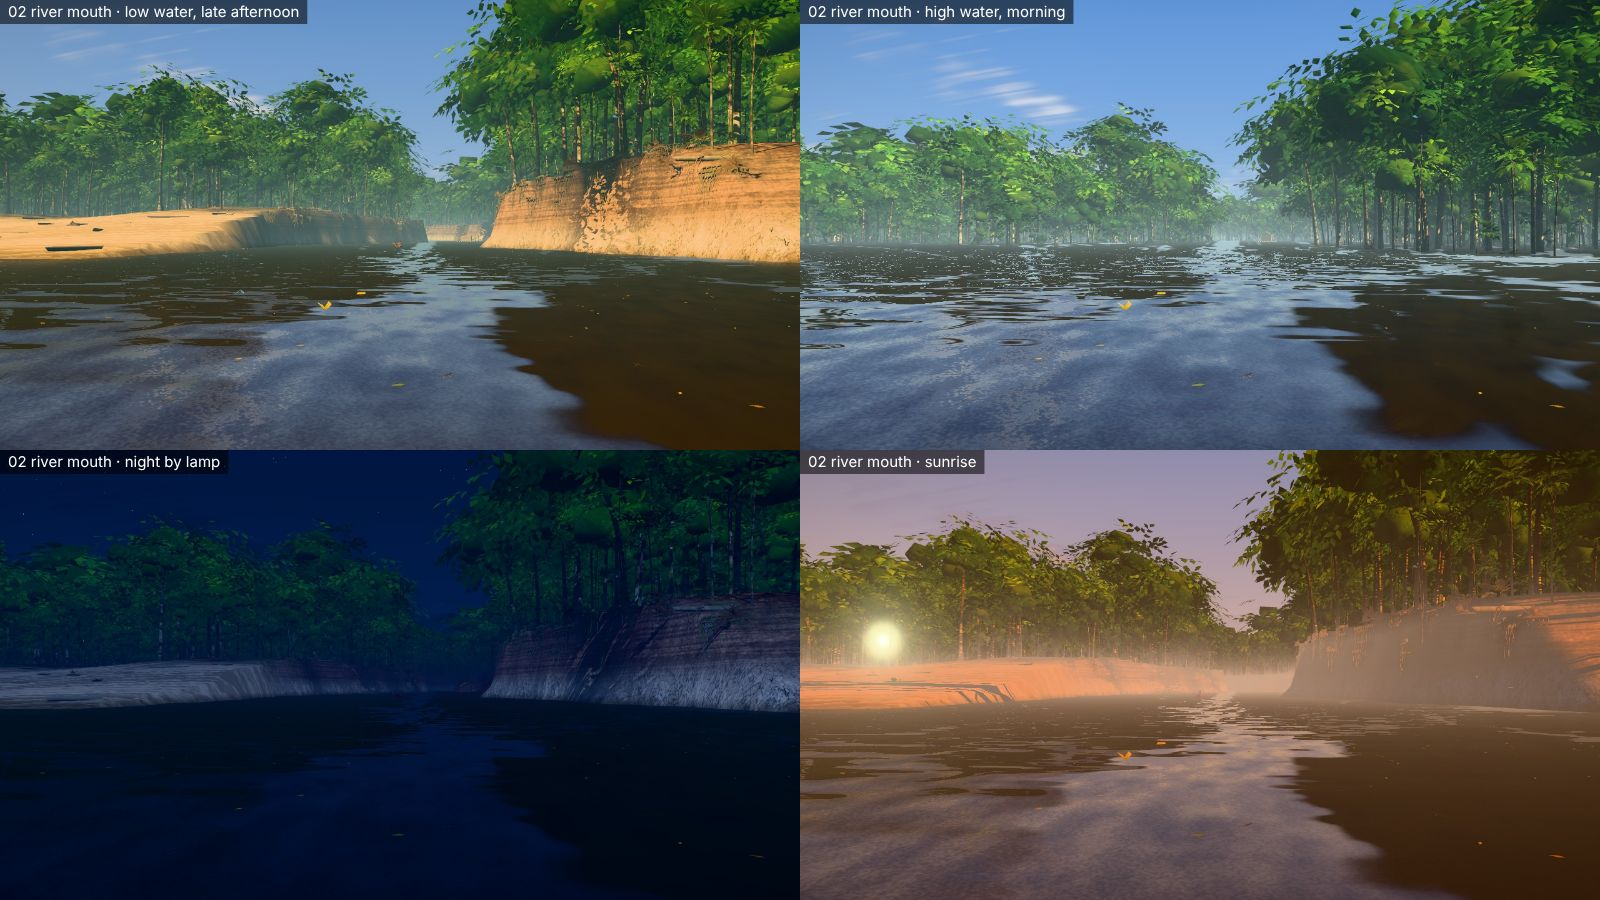
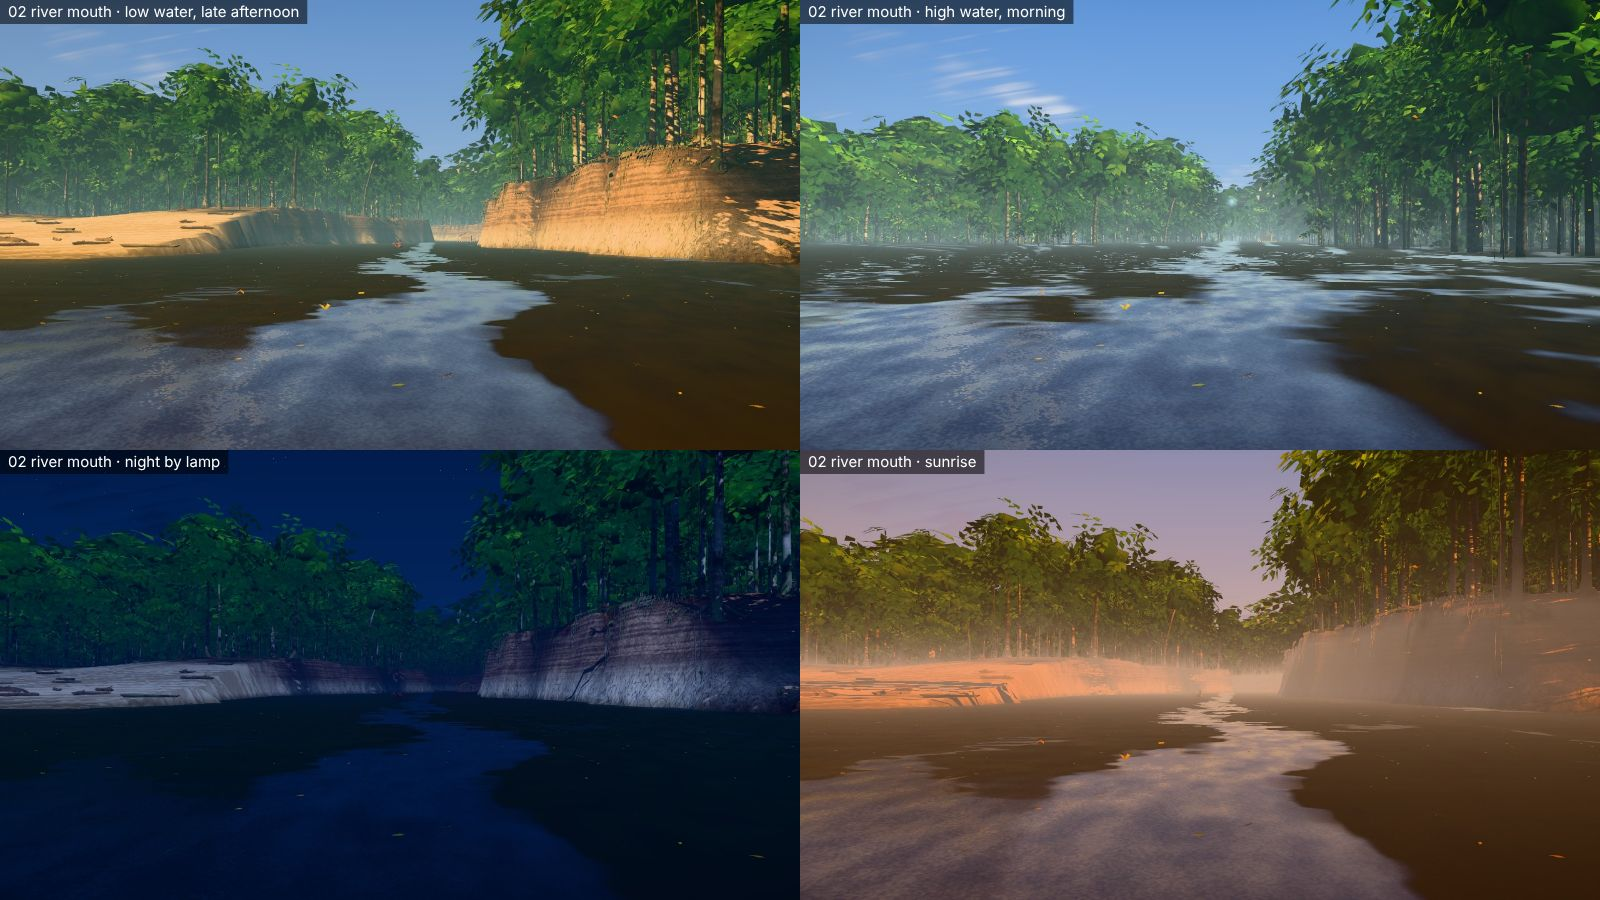
Trees as distinct kinds with real limbs (emergent giants, forked canopy trees, candelabra trees, snags), palm groves, shrub walls at the water's edge, wider bark and leaf colour range
Claude-Session: https://claude.ai/code/session_01GrVJbQmiYrY8pANU95x3Vf

diff --git a/src/world/forestCook.ts b/src/world/forestCook.ts
@@ -11,7 +11,7 @@ export const cellOf = (x: number, z: number) => {
   return cz * CELLS + cx
 }
 export type FieldData = { data: Float32Array; cellStart: Uint32Array }
-export const FIELD_NAMES = ['trunk', 'clump', 'spray', 'palm', 'sapling', 'broadleaf', 'tuft', 'log', 'root', 'vine', 'bankroot', 'floater', 'shaft', 'spFern', 'spFern2', 'spLeather', 'spPalm', 'spFan', 'spBanana', 'spEar', 'spTree', 'spDrift'] as const
+export const FIELD_NAMES = ['trunk', 'clump', 'spray', 'palm', 'sapling', 'broadleaf', 'tuft', 'log', 'root', 'vine', 'bankroot', 'floater', 'shaft', 'spFern', 'spFern2', 'spLeather', 'spPalm', 'spFan', 'spBanana', 'spEar', 'spTree', 'spDrift', 'limb'] as const
 export type FieldName = (typeof FIELD_NAMES)[number]
 
 class Rec {
@@ -52,32 +52,79 @@ export function cookForest(hf: Heightfield, density: number, progress: (f: numbe
   }
   const trees: { x: number; y: number; z: number; r: number; h: number; type: number }[] = []
 
+  // A limb: a tapering branch from a point, along a yaw and a pitch (angle from straight up). Returns its tip.
+  const tip = { x: 0, y: 0, z: 0 }
+  const limb = (x: number, y: number, z: number, rad: number, yaw: number, pitch: number, len: number, seed: number) => {
+    R.limb.push(x, y, z, rad, yaw, seed, len, pitch)
+    tip.x = x + Math.sin(pitch) * Math.cos(yaw) * len; tip.y = y + Math.cos(pitch) * len; tip.z = z + Math.sin(pitch) * Math.sin(yaw) * len
+    return tip
+  }
+  const clump = (x: number, y: number, z: number, s: number, flat: number, tint: number) => R.clump.push(x, y, z, s, r() * 6.283, r(), flat, Math.min(1, Math.max(0, tint + r.range(-0.1, 0.1))))
+  // Tree kinds, after the real forest: 0 emergent giant with spreading limbs and a broad flat crown; 1 canopy tree
+  // forking into rising limbs; 2 mid tree; 3 pole; 4 treelet; 5 thin pale candelabra tree with big open leaf sprays;
+  // 7 bare snag. Every kind has its own height, girth, bark tone, branching and leaf colour.
   const addTree = (x: number, z: number, type: number, forceLean = -1, leanDir = 0, scale = 1) => {
     const y = hf.at(x, z)
-    const seed = r()
-    // type: 0 emergent, 1 canopy, 2 mid, 3 pole, 4 treelet
-    const h = (type === 0 ? r.range(32, 42) : type === 1 ? r.range(19, 29) : type === 2 ? r.range(11, 18) : type === 3 ? r.range(6, 11) : r.range(2.8, 5.5)) * scale
-    const rad = (type === 0 ? r.range(0.75, 1.15) : type === 1 ? r.range(0.26, 0.5) : type === 2 ? r.range(0.13, 0.26) : type === 3 ? r.range(0.055, 0.11) : r.range(0.03, 0.055)) * scale
-    const lean = forceLean >= 0 ? forceLean : r() * r() * 0.12
+    const h = (type === 0 ? r.range(34, 46) : type === 1 ? r.range(19, 30) : type === 2 ? r.range(10, 18) : type === 3 ? r.range(6, 12) : type === 5 ? r.range(11, 20) : type === 7 ? r.range(9, 22) : r.range(2.8, 5.5)) * scale
+    const rad = (type === 0 ? r.range(0.85, 1.4) : type === 1 ? r.range(0.24, 0.6) : type === 2 ? r.range(0.11, 0.28) : type === 3 ? r.range(0.05, 0.11) : type === 5 ? r.range(0.09, 0.16) : type === 7 ? r.range(0.15, 0.4) : r.range(0.03, 0.055)) * scale
+    const lean = forceLean >= 0 ? forceLean : type === 5 ? r.range(0.03, 0.2) : r() * r() * 0.16
     const rot = forceLean >= 0 ? leanDir : r() * 6.283
+    // bark tone by kind: giants and candelabra trees are pale, others run from dark to mid
+    const seed = type === 0 ? r.range(0.8, 1) : type === 5 ? r.range(0.88, 1) : type === 7 ? r.range(0.5, 0.75) : r() * r() * 0.75
     R.trunk.push(x, y - 0.3, z, rad, rot, seed, h, lean)
     trees.push({ x, y, z, r: rad, h, type })
     if (rad > 0.13) solids.push(x, z, rad * (type === 0 ? 1.9 : 1.25))
-    // crown: clumps round the top. The trunk leans along (sin rot, cos rot) by lean*h at the top.
-    const tx = x + Math.sin(rot) * lean * h, tz = z + Math.cos(rot) * lean * h
-    const n = type === 0 ? 12 + r.int(3) : type === 1 ? 8 + r.int(3) : type === 2 ? 5 + r.int(2) : type === 3 ? 1 + r.int(2) : 1 + r.int(2)
-    const cs = type === 0 ? r.range(6.5, 9.5) : type === 1 ? r.range(3.8, 6.2) : type === 2 ? r.range(2.4, 3.8) : type === 3 ? r.range(1.3, 2.1) : r.range(0.9, 1.6)
-    const tint = fbm2(x / 90, z / 90, S + 5, 2) * 0.6 + r() * 0.4
+    // point on the leaning trunk at a fraction of its height
+    const at = (f: number) => { tip.x = x + Math.sin(rot) * lean * h * f * f; tip.y = y + h * f; tip.z = z + Math.cos(rot) * lean * h * f * f; return tip }
+    const tint = type === 5 ? r.range(0.72, 0.95) : type === 0 ? r.range(0.25, 0.5) : fbm2(x / 90, z / 90, S + 5, 2) * 0.55 + r() * 0.45
     const a0 = r() * 6.283
-    for (let i = 0; i < n; i++) {
-      const top = i === 0
-      const ang = a0 + (i / Math.max(1, n - 1)) * 6.283 + r.range(-0.3, 0.3)
-      const ring = top ? 0 : cs * (type === 0 ? r.range(0.55, 1.1) : r.range(0.35, 0.75))
-      const s = cs * (top ? 1.05 : r.range(0.65, 1.0))
-      const cy = y + h * (top ? 0.97 : r.range(0.62, 0.93)) - (type === 0 && !top ? 1.5 : 0)
-      ;(type >= 3 ? R.spray : R.clump).push(tx + Math.cos(ang) * ring, cy, tz + Math.sin(ang) * ring, s, r() * 6.283, r(), type === 0 ? r.range(0.45, 0.6) : r.range(0.6, 0.95), Math.min(1, Math.max(0, tint + r.range(-0.12, 0.12))))
+    let crownR = 3
+    if (type === 0) {
+      // great limbs spread nearly level from the top of a bare trunk; flat crowns sit along and above them
+      const n = 6 + r.int(3)
+      crownR = r.range(11, 16)
+      for (let i = 0; i < n; i++) {
+        const f = r.range(0.78, 0.96), b = at(f), bx = b.x, by = b.y, bz = b.z
+        const yaw = a0 + (i / n) * 6.283 + r.range(-0.3, 0.3), len = crownR * r.range(0.7, 1.05)
+        const e = limb(bx, by, bz, rad * 0.42, yaw, r.range(1.0, 1.35), len, seed), ex = e.x, ey = e.y, ez = e.z
+        clump((bx + ex) / 2, (by + ey) / 2 + 1.5, (bz + ez) / 2, r.range(4.5, 6.5), r.range(0.4, 0.55), tint)
+        clump(ex, ey + 1, ez, r.range(5, 7.5), r.range(0.38, 0.5), tint)
+        if (r() < 0.6) { const e2 = limb(ex, ey, ez, rad * 0.2, yaw + r.range(-0.8, 0.8), r.range(0.9, 1.3), len * 0.4, seed); clump(e2.x, e2.y + 0.8, e2.z, r.range(3.5, 5), 0.45, tint) }
+      }
+      const t = at(1); clump(t.x, t.y + 1, t.z, r.range(6, 8), 0.5, tint)
+    } else if (type === 1 || type === 2) {
+      // the trunk forks into rising limbs; leaf masses gather at their ends and fill the middle
+      const n = type === 1 ? 3 + r.int(3) : 2 + r.int(2)
+      const cs = type === 1 ? r.range(3.6, 5.6) : r.range(2.2, 3.4)
+      crownR = cs * 1.7
+      for (let i = 0; i < n; i++) {
+        const f = r.range(0.5, 0.72), b = at(f), bx = b.x, by = b.y, bz = b.z
+        const yaw = a0 + (i / n) * 6.283 + r.range(-0.4, 0.4), len = h * r.range(0.22, 0.4)
+        const e = limb(bx, by, bz, rad * 0.5, yaw, r.range(0.45, 0.95), len, seed), ex = e.x, ey = e.y, ez = e.z
+        clump(ex, ey + cs * 0.15, ez, cs * r.range(0.75, 1.1), r.range(0.6, 0.9), tint)
+        if (type === 1 && r() < 0.7) { const e2 = limb(ex, ey, ez, rad * 0.25, yaw + r.range(-1, 1), r.range(0.5, 1.2), len * 0.5, seed); clump(e2.x, e2.y, e2.z, cs * r.range(0.6, 0.9), r.range(0.6, 0.85), tint) }
+      }
+      const t = at(0.98); clump(t.x, t.y, t.z, cs * 1.05, r.range(0.6, 0.85), tint)
+      if (r() < 0.5) { const m = at(0.8); clump(m.x + r.range(-1.5, 1.5), m.y, m.z + r.range(-1.5, 1.5), cs * 0.9, 0.7, tint) }
+    } else if (type === 5) {
+      // a few bare, upward-curving branches, each ending in one big open spray of pale leaves
+      const n = 3 + r.int(3)
+      for (let i = 0; i < n; i++) {
+        const f = r.range(0.62, 0.92), b = at(f), bx = b.x, by = b.y, bz = b.z
+        const e = limb(bx, by, bz, rad * 0.55, a0 + (i / n) * 6.283 + r.range(-0.3, 0.3), r.range(0.6, 1.0), h * r.range(0.16, 0.28), seed)
+        R.spray.push(e.x, e.y + 0.4, e.z, r.range(2.0, 3.0), r() * 6.283, r(), 1, tint)
+      }
+      const t = at(1); R.spray.push(t.x, t.y + 0.5, t.z, r.range(2.2, 3.2), r() * 6.283, r(), 1, tint)
+      crownR = 3
+    } else if (type === 7) {
+      for (let i = 0; i < 3 + r.int(3); i++) { const b = at(r.range(0.55, 0.95)); limb(b.x, b.y, b.z, rad * 0.4, r() * 6.283, r.range(0.5, 1.2), h * r.range(0.12, 0.25), seed) }
+      crownR = 0
+    } else {
+      const n = 1 + r.int(2), cs = type === 3 ? r.range(1.3, 2.1) : r.range(0.9, 1.6)
+      for (let i = 0; i < n; i++) { const t = at(i === 0 ? 0.97 : r.range(0.75, 0.92)); R.spray.push(t.x + (i ? r.range(-0.8, 0.8) : 0), t.y, t.z + (i ? r.range(-0.8, 0.8) : 0), cs, r() * 6.283, r(), r.range(0.6, 0.95), tint) }
+      crownR = 0
     }
-    if (type <= 2) splat(tx, tz, cs * (type === 0 ? 2.1 : 1.7), 0.8)
+    if (crownR > 2 && type !== 5) { const t = at(1); splat(t.x, t.z, crownR * 1.15, 0.85) }
     return rad
   }
 
@@ -107,10 +154,10 @@ export function cookForest(hf: Heightfield, density: number, progress: (f: numbe
         const e = 2
         const gxn = heightFormula(x + e, z) - heightFormula(x - e, z), gzn = heightFormula(x, z + e) - heightFormula(x, z - e)
         const dir = Math.atan2(-gxn, -gzn)
-        addTree(x, z, typeRoll < 0.2 ? 1 : 2, Math.hypot(gxn, gzn) > 0.15 ? r.range(0.12, 0.3) : r() * 0.1, dir, 0.9)
+        addTree(x, z, typeRoll < 0.14 ? 1 : typeRoll < 0.32 ? 2 : 5, Math.hypot(gxn, gzn) > 0.15 ? r.range(0.12, 0.3) : r() * 0.1, dir, 0.9)
         continue
       }
-      const type = typeRoll < 0.04 ? 0 : typeRoll < 0.3 ? 1 : typeRoll < 0.55 ? 2 : typeRoll < 0.8 ? 3 : 4
+      const type = typeRoll < 0.035 ? 0 : typeRoll < 0.3 ? 1 : typeRoll < 0.52 ? 2 : typeRoll < 0.72 ? 3 : typeRoll < 0.86 ? 4 : typeRoll < 0.985 ? 5 : 7
       if (type === 0 && dTrail < 6) { addTree(x, z, 1); continue }
       addTree(x, z, type)
     }
@@ -131,14 +178,17 @@ export function cookForest(hf: Heightfield, density: number, progress: (f: numbe
 
   // ---- palms: small groups on higher, lighter ground
   const rp = rng('palms')
-  for (let i = 0; i < 520 * density; i++) {
-    const x = rp.range(-340, 340), z = rp.range(-340, 340)
-    if (fbm2(x / 60, z / 60, S + 71, 2) < 0.52) continue
+  let gx0 = 0, gz0 = 0
+  for (let i = 0; i < 1500 * density; i++) {
+    // palms stand in groves: every sixth one starts a new grove, the rest crowd round it
+    if (i % 6 === 0) { gx0 = rp.range(-340, 340); gz0 = rp.range(-340, 340) }
+    const x = gx0 + rp.range(-7, 7), z = gz0 + rp.range(-7, 7)
+    if (fbm2(gx0 / 60, gz0 / 60, S + 71, 2) < 0.47) continue
     const h = heightFormula(x, z)
     if (h < 7.2 || kind.lake > 0.02 || kind.channel > 0.04 || kind.sand > 0.2 || kind.dry > 0.3 || kind.trail > 0.25) continue
     if (Math.hypot(x - COMMUNITY.x, z - COMMUNITY.z) < 30 || Math.hypot(x - PLACES.giantTrunk.x, z - PLACES.giantTrunk.z) < 9) continue
-    const ph = rp.range(7, 16), seed = rp()
-    R.trunk.push(x, h - 0.3, z, rp.range(0.11, 0.16), rp() * 6.283, seed, ph, rp.range(0.02, 0.14))
+    const ph = rp.range(7, 19), seed = rp.range(0.7, 0.95)
+    R.trunk.push(x, h - 0.3, z, rp.range(0.1, 0.17), rp() * 6.283, seed, ph, rp.range(0.02, 0.24))
     solids.push(x, z, 0.22)
     const rot = R.trunk.a[R.trunk.a.length - 4], lean = R.trunk.a[R.trunk.a.length - 1]
     R.palm.push(x + Math.sin(rot) * lean * ph, h + ph - 0.5, z + Math.cos(rot) * lean * ph, rp.range(3.2, 4.6), rp() * 6.283, seed, rp.range(0.8, 1.1), rp())
@@ -230,6 +280,18 @@ export function cookForest(hf: Heightfield, density: number, progress: (f: numbe
     const gxn = heightFormula(x + e, z) - heightFormula(x - e, z), gzn = heightFormula(x, z + e) - heightFormula(x, z - e)
     if (roll < 0.06) R.spTree.push(x, h - 0.2, z, rb.range(2, 3.6), Math.atan2(-gzn, -gxn), seed, 1, rb())
     else R.bankroot.push(x, h + 0.25, z, w, Math.atan2(-gxn, -gzn), seed, len, 0)
+  }
+  // ---- the green wall: low dense shrubs along the top of the banks and round the lake, down to the edge
+  const rw = rng('edge-shrubs')
+  for (let i = 0; i < 26000 * density; i++) {
+    const x = rw.range(-lim, lim), z = rw.range(-lim, 262), sz = rw.range(1.6, 3.6), fl = rw.range(0.55, 0.9), tn = rw.range(0.35, 0.95)
+    const h = heightFormula(x, z)
+    const lakeEdge = kind.lake > 0.0 && kind.lake < 0.5 && h > LAKE_LEVEL + 0.3
+    const bankTop = kind.channel > 0.0 && kind.channel < 0.1 && h > 7
+    const riverEdge = kind.bank > 0.25 && h > 5.5 && kind.channel < 0.01
+    if (!(lakeEdge || bankTop || riverEdge) || kind.trail > 0.2 || kind.sand > 0.3) continue
+    if (Math.hypot(x - PLACES.stepsTop.x, z - PLACES.stepsTop.z) < 7 || Math.hypot(x - PLACES.lakeBank.x, z - PLACES.lakeBank.z) < 9) continue
+    R.clump.push(x, h + sz * 0.35, z, sz, rw() * 6.283, rw(), fl, tn)
   }
   // ---- floating plants: candidates all down the slopes; the shader shows only those the water's edge has reached
   const rf = rng('floaters')

diff --git a/src/world/forest.ts b/src/world/forest.ts
@@ -38,7 +38,7 @@ export const barkColor = (seed: N, groundY: N) => {
   const streak = noise(vec2(pw.x.add(pw.z).mul(0.5), pw.y.mul(0.05))).a
   const blot = noise(vec2(pw.x.sub(pw.z).mul(0.13), pw.y.mul(0.12))).r
   const fine = noise(vec2(pw.x.add(pw.z).mul(1.9), pw.y.mul(0.5))).b
-  let col: N = mix(vec3(0.1, 0.07, 0.05), vec3(0.3, 0.24, 0.17), seed)
+  let col: N = mix(mix(vec3(0.07, 0.045, 0.035), vec3(0.24, 0.15, 0.09), smoothstep(0.0, 0.45, seed)), vec3(0.52, 0.47, 0.38), smoothstep(0.55, 0.95, seed))
   // relief: the bark's ridges catch the light on one side (a cheap emboss of the same strokes)
   const streak2 = noise(vec2(pw.x.add(pw.z).mul(0.5).add(0.012), pw.y.mul(0.05).add(0.004))).a
   const ridge = streak.sub(streak2).mul(9).clamp(-0.5, 0.6)
@@ -70,6 +70,22 @@ function trunkMaterial(far: number) {
   return m
 }
 
+function limbMaterial(far: number) {
+  const m = new PaintedMaterial({ wrap: 0.3 })
+  m.positionNode = Fn(() => {
+    const rad = ia.w, yaw = ib.x, len = ib.z, pitch = ib.w
+    // tilt away from straight up towards local +x, then turn to the yaw; branches curve up a little at the end
+    const t = aux.y
+    const l = vec3(positionLocal.x.mul(rad), positionLocal.y.mul(len), positionLocal.z.mul(rad))
+    const tilted = vec3(l.x.mul(cos(pitch)).add(l.y.mul(sin(pitch))), l.y.mul(cos(pitch)).sub(l.x.mul(sin(pitch))).add(t.mul(t).mul(len).mul(0.12)), l.z)
+    const n0 = vec3(normalLocal.x.mul(cos(pitch)).add(normalLocal.y.mul(sin(pitch))), normalLocal.y.mul(cos(pitch)).sub(normalLocal.x.mul(sin(pitch))), normalLocal.z)
+    normalLocal.assign(rotX(n0, yaw))
+    return rotX(tilted, yaw).mul(shrink(far)).add(ia.xyz)
+  })()
+  m.colorNode = Fn(() => barkColor(ib.y, ia.y.sub(20)))()
+  return m
+}
+
 function clumpMaterial(far: number) {
   const m = new PaintedMaterial({ wrap: 0.22, back: 0.16, pools: false })
   m.side = THREE.DoubleSide
@@ -88,8 +104,9 @@ function clumpMaterial(far: number) {
     const dab = noise(pw.xz.mul(0.31).add(pw.y.mul(0.23))).g
     const dab2 = noise(vec2(pw.x.add(pw.y), pw.z.sub(pw.y)).mul(0.085)).r
     const fleck = noise(vec2(pw.x.add(pw.y.mul(0.7)), pw.z.sub(pw.y.mul(0.7))).mul(1.7)).b
-    let col: N = mix(vec3(0.012, 0.05, 0.022), vec3(0.05, 0.15, 0.025), tint)
-    col = mix(col, vec3(0.14, 0.17, 0.03), smoothstep(0.78, 1.0, tint).mul(0.6))
+    let col: N = mix(vec3(0.01, 0.045, 0.028), vec3(0.045, 0.14, 0.022), smoothstep(0.0, 0.55, tint))
+    col = mix(col, vec3(0.11, 0.17, 0.025), smoothstep(0.5, 0.75, tint))
+    col = mix(col, vec3(0.2, 0.2, 0.04), smoothstep(0.82, 1.0, tint).mul(0.7))
     col = col.mul(dab.mul(0.6).add(0.7)).mul(fleck.mul(0.5).add(0.75))
     // dark, cool undersides; light gathers on the tops and on the sprigs at the edge
     const top = smoothstep(-0.6, 0.7, lh)
@@ -125,7 +142,7 @@ function plantMaterial(far: number, kind: 'sapling' | 'broadleaf' | 'tuft' | 'pa
     let col: N
     if (kind === 'tuft') col = mix(vec3(0.03, 0.075, 0.02), vec3(0.1, 0.15, 0.04), tint)
     else if (kind === 'palm') col = mix(vec3(0.06, 0.17, 0.05), vec3(0.2, 0.33, 0.07), tint.mul(0.6).add(rnd.mul(0.4)))
-    else col = mix(vec3(0.02, 0.085, 0.03), vec3(0.08, 0.19, 0.035), tint.mul(0.55).add(rnd.mul(0.45)))
+    else col = mix(mix(vec3(0.02, 0.085, 0.03), vec3(0.08, 0.19, 0.035), tint.mul(0.55).add(rnd.mul(0.45))), vec3(0.2, 0.3, 0.1), kind === 'spray' ? smoothstep(0.7, 0.95, tint) : float(0))
     // darker at the base, lighter at the tip, a pale midrib
     col = col.mul(mix(float(0.5), float(1.15), smoothstep(0.0, 0.8, t)))
     const rib = smoothstep(0.12, 0.0, abs(aux.y.sub(0.5)))
@@ -214,10 +231,14 @@ export function buildForest(fc: ForestCook, group: THREE.Object3D): Forest {
     { geometry: G.trunkGeometry(6, 4, 0), material: trunkM[1], near: 52, far: 170 },
     { geometry: G.trunkGeometry(4, 2, 0), material: trunkM[2], near: 170, far: 520 },
   ], 60))
+  fields.push(mk('limb' as any, [
+    { geometry: G.limbGeometry(6, 3), material: limbMaterial(9999), near: 0, far: 60, shadow: true },
+    { geometry: G.limbGeometry(4, 1), material: limbMaterial(260), near: 60, far: 260 },
+  ], 60))
   const clumpM = [clumpMaterial(9999), clumpMaterial(9999), clumpMaterial(520)]
   fields.push(mk('clump', [
-    { geometry: G.leafClumpGeometry(170, 0.36, 1, 'clump-a'), material: clumpM[0], near: 0, far: 48 },
-    { geometry: G.leafClumpGeometry(50, 0.6, 0, 'clump-a'), material: clumpM[1], near: 48, far: 150 },
+    { geometry: G.leafClumpGeometry(190, 0.36, 0, 'clump-a'), material: clumpM[0], near: 0, far: 48 },
+    { geometry: G.leafClumpGeometry(70, 0.56, 0, 'clump-a'), material: clumpM[1], near: 48, far: 150 },
     { geometry: G.leafClumpGeometry(20, 0.95, 0, 'clump-a'), material: clumpM[2], near: 150, far: 520 },
   ]))
   fields.push(mk('spray', [

diff --git a/src/world/geom.ts b/src/world/geom.ts
@@ -69,6 +69,17 @@ export class GB {
   }
 }
 
+// ---- limb: a tapering branch along +Y, unit length, unit radius at its foot, curving a little. aux = (0, t, 0)
+export function limbGeometry(sides: number, rings: number): THREE.BufferGeometry {
+  const g = new GB()
+  for (let j = 0; j <= rings; j++) {
+    const t = j / rings, rr = 1 - 0.62 * t
+    for (let i = 0; i < sides; i++) { const th = (i / sides) * Math.PI * 2; g.v(Math.cos(th) * rr, t, Math.sin(th) * rr, Math.cos(th), 0.2, Math.sin(th), 0, t, 0) }
+  }
+  for (let j = 0; j < rings; j++) for (let i = 0; i < sides; i++) { const a = j * sides + i, b = j * sides + ((i + 1) % sides); g.quad(a, a + sides, b + sides, b) }
+  return g.build()
+}
+
 // ---- trunk: unit height, unit radius at chest. aux = (root flare weight, height 0..1, 1 on limbs)
 export function trunkGeometry(sides: number, rings: number, limbs: number): THREE.BufferGeometry {
   const g = new GB()
@@ -168,7 +179,7 @@ export function leafClumpGeometry(leaves: number, leafSize: number, coreDetail: 
     v.fromBufferAttribute(p, i).normalize()
     const key = `${v.x.toFixed(4)},${v.y.toFixed(4)},${v.z.toFixed(4)}`
     let id = map.get(key)
-    if (id === undefined) { const s = rad(v.x, v.y, v.z) * 0.56; id = g.v(v.x * s, (v.y < 0 ? v.y * 0.7 : v.y) * s, v.z * s, v.x, v.y + 0.2, v.z, 0.5, v.y, 0); map.set(key, id) }
+    if (id === undefined) { const s = rad(v.x, v.y, v.z) * 0.36; id = g.v(v.x * s, (v.y < 0 ? v.y * 0.7 : v.y) * s, v.z * s, v.x, v.y + 0.2, v.z, 0.5, v.y, 0); map.set(key, id) }
     g.idx.push(id)
   }
   // leaves grow in sprays: a twig leaves the mass, and five or six leaves sit along it in pairs, all hanging
